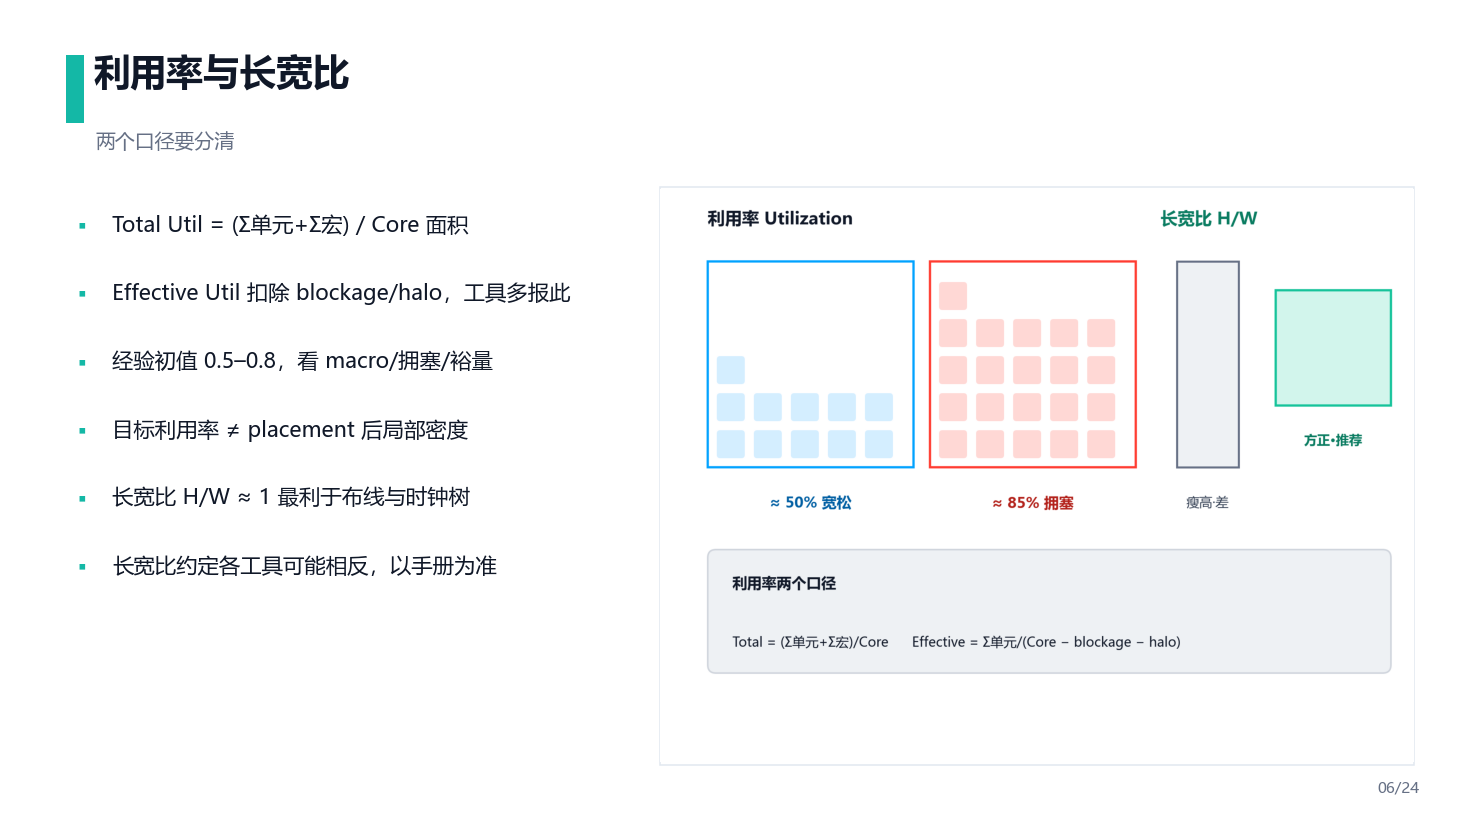
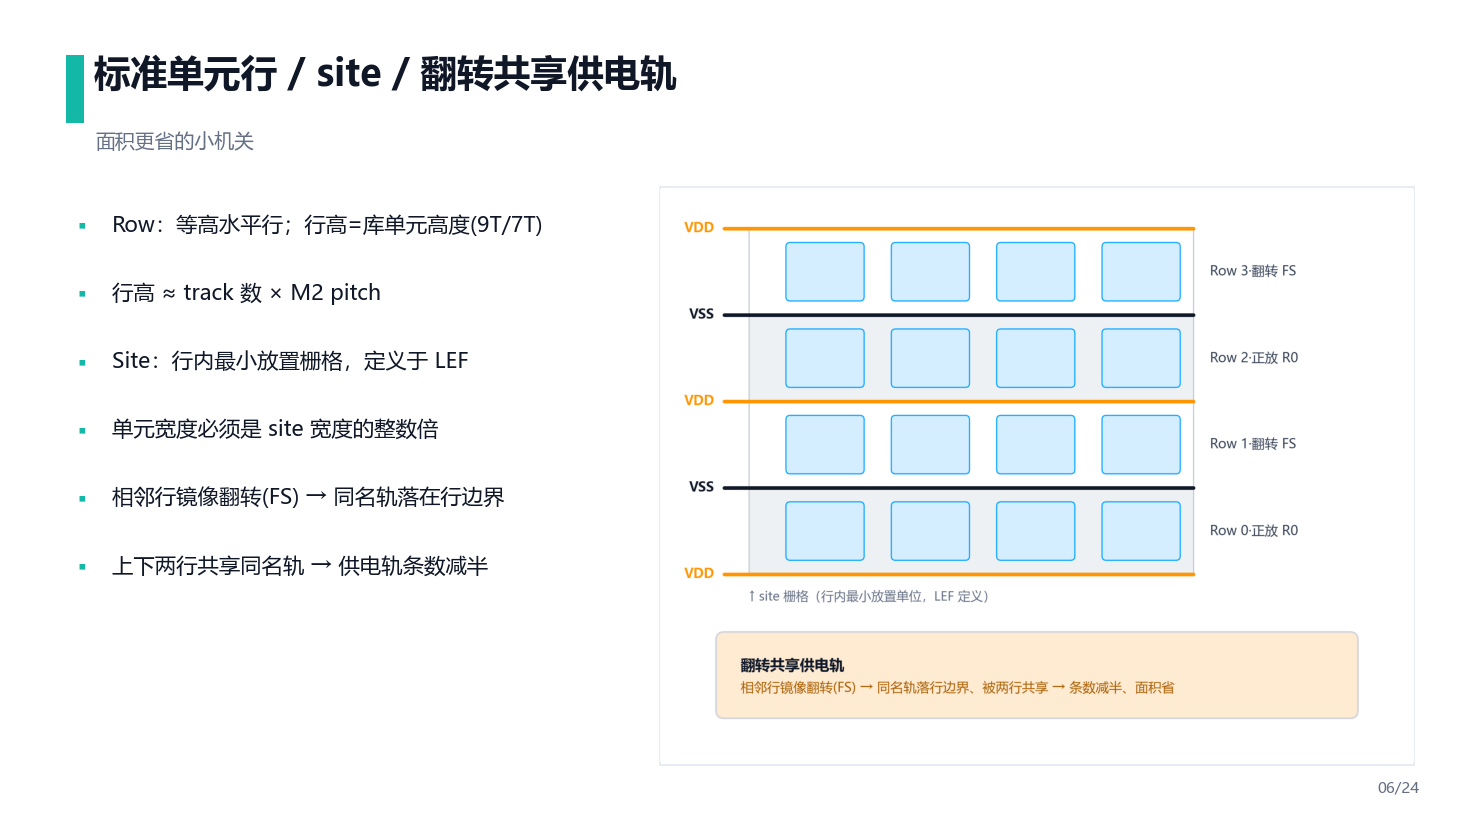
fix(order): rows/site before utilization in deck + spoken script (match 教案); geometry->rows->util across all 3 artifacts

diff --git a/_SlideKit/notes/05_floorplan/slides.py b/_SlideKit/notes/05_floorplan/slides.py
@@ -61,14 +61,6 @@ SPECS = [
         "Core 内切成等高的标准单元行 Rows",
         "嵌套：Die ＞ Pad Ring ＞ Core ＞ Macro+Rows",
     ], BLUE),
-    split("利用率与长宽比", "两个口径要分清", "f04_util.png", [
-        "Total Util = (Σ单元+Σ宏) / Core 面积",
-        "Effective Util 扣除 blockage/halo，工具多报此",
-        "经验初值 0.5–0.8，看 macro/拥塞/裕量",
-        "目标利用率 ≠ placement 后局部密度",
-        "长宽比 H/W ≈ 1 最利于布线与时钟树",
-        "长宽比约定各工具可能相反，以手册为准",
-    ], TEAL),
     split("标准单元行 / site / 翻转共享供电轨", "面积更省的小机关", "f05_rows.png", [
         "Row：等高水平行；行高=库单元高度(9T/7T)",
         "行高 ≈ track 数 × M2 pitch",
@@ -76,6 +68,14 @@ SPECS = [
         "单元宽度必须是 site 宽度的整数倍",
         "相邻行镜像翻转(FS) → 同名轨落在行边界",
         "上下两行共享同名轨 → 供电轨条数减半",
+    ], TEAL),
+    split("利用率与长宽比", "两个口径要分清", "f04_util.png", [
+        "Total Util = (Σ单元+Σ宏) / Core 面积",
+        "Effective Util 扣除 blockage/halo，工具多报此",
+        "经验初值 0.5–0.8，看 macro/拥塞/裕量",
+        "目标利用率 ≠ placement 后局部密度",
+        "长宽比 H/W ≈ 1 最利于布线与时钟树",
+        "长宽比约定各工具可能相反，以手册为准",
     ], AMBER),
     split("宏单元摆放原则", "Macro Placement", "f06_macro.png", [
         "宏 = SRAM/PLL/IP，尺寸大、形状/引脚固定",